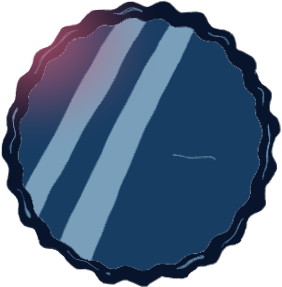
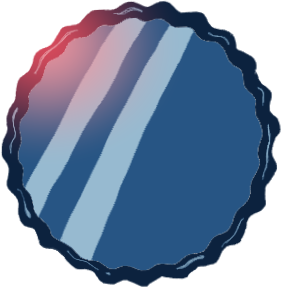
Nettoyer le verre du miroir et renforcer son reflet de lampe

diff --git a/index.html b/index.html
@@ -1187,7 +1187,7 @@ html body #work-desktop .desktop-folder .folder-tile.work-browser-tile{
 
 
 
-<script src="poster-fit.js?v=20261118-halo-affiches" defer></script><script src="mirror-placement.js?v=verre-mobile9" defer></script><script src="flower-lamp-placement.js?v=miroir-actif8" defer></script>
+<script src="poster-fit.js?v=20261118-halo-affiches" defer></script><script src="mirror-placement.js?v=verre10" defer></script><script src="flower-lamp-placement.js?v=miroir-actif8" defer></script>
 <script src="fortune-cookie-placement.js?v=20261118-biscuit" defer></script>
 <script src="interactive-decor-outlines.js?v=20261106-unified-1" defer></script>
 <script src="glow-stars.js?v=20261118-retirer-etoile" defer></script>

diff --git a/mirror-placement.js b/mirror-placement.js
@@ -124,7 +124,7 @@
     function syncMirrorArtwork() {
       const night = document.documentElement.dataset.theme === 'night';
       const file = night ? 'miroir-verre-nuit.webp' : 'miroir.webp';
-      for (const {image} of imageTriangles) image.setAttribute('href','assets/room-redraw/'+file);
+      for (const {image} of imageTriangles) image.setAttribute('href','assets/room-redraw/'+file+'?v=verre10');
     }
     syncMirrorArtwork();
     new MutationObserver(syncMirrorArtwork).observe(document.documentElement,{attributes:true,attributeFilter:['data-theme']});
